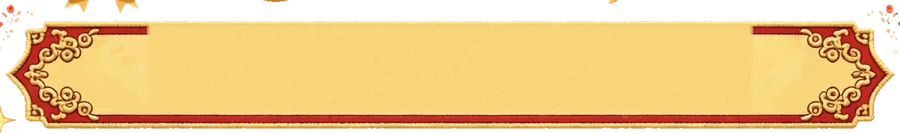
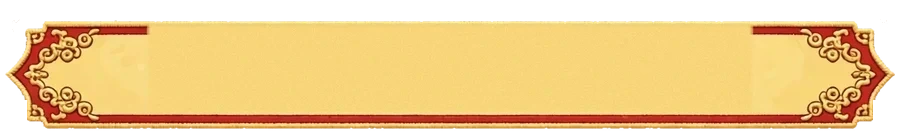
fix(ui): EmptyState thanh bang thu + don debris bieu ngu thanh tich
- Shared EmptyState: was a dashed muted box whose title all but
  vanished in dark theme (leaderboard empty state) — now a letter
  board (fibre paper, wood rim, ink text in both themes), which
  also lifts every other empty state in the player/role areas.
- r4-achieve-plaque asset: fragments of neighbouring ornaments
  from the source sheet (above the top border, beside both tips,
  star bits at the bottom corners) keyed/trimmed away — they
  glittered at the banner's ends on the achievements page.

AI-assisted: Yes
AI-tool: Muse

diff --git a/src/components/EmptyState.module.css b/src/components/EmptyState.module.css
@@ -22,3 +22,19 @@
   display: flex;
   justify-content: center;
 }
+
+/* ---- Visual phase: the shared empty state is a letter board —
+   fibre-paper face with a wood rim and ink text in BOTH themes
+   (the old dashed muted box flipped dark in dark theme and its
+   title all but vanished on the leaderboard). ---- */
+.wrap {
+  background:
+    repeating-linear-gradient(0deg, rgba(160, 116, 52, 0.05) 0 2px, rgba(160, 116, 52, 0) 2px 9px),
+    radial-gradient(rgba(160, 116, 52, 0.08) 1px, rgba(160, 116, 52, 0) 1.6px) 0 0 / 9px 9px,
+    linear-gradient(180deg, #fdf3d3, #f0deb2);
+  border: 3px solid #6d4520;
+  border-radius: 16px;
+  box-shadow: inset 0 0 0 2px rgba(233, 192, 122, 0.45), 0 6px 0 rgba(74, 44, 20, 0.25);
+}
+.title { color: #43301b; }
+.description { color: #7a5c38; }
